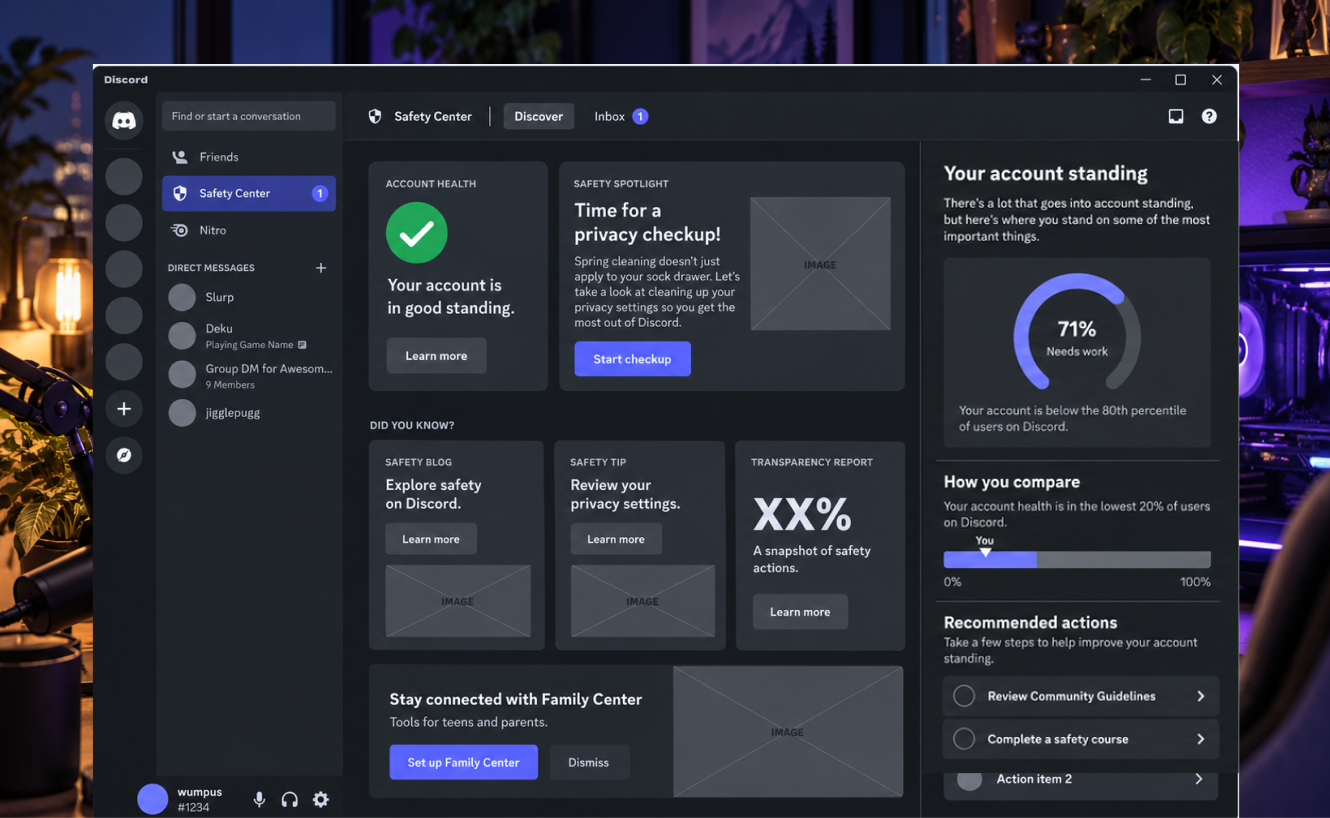
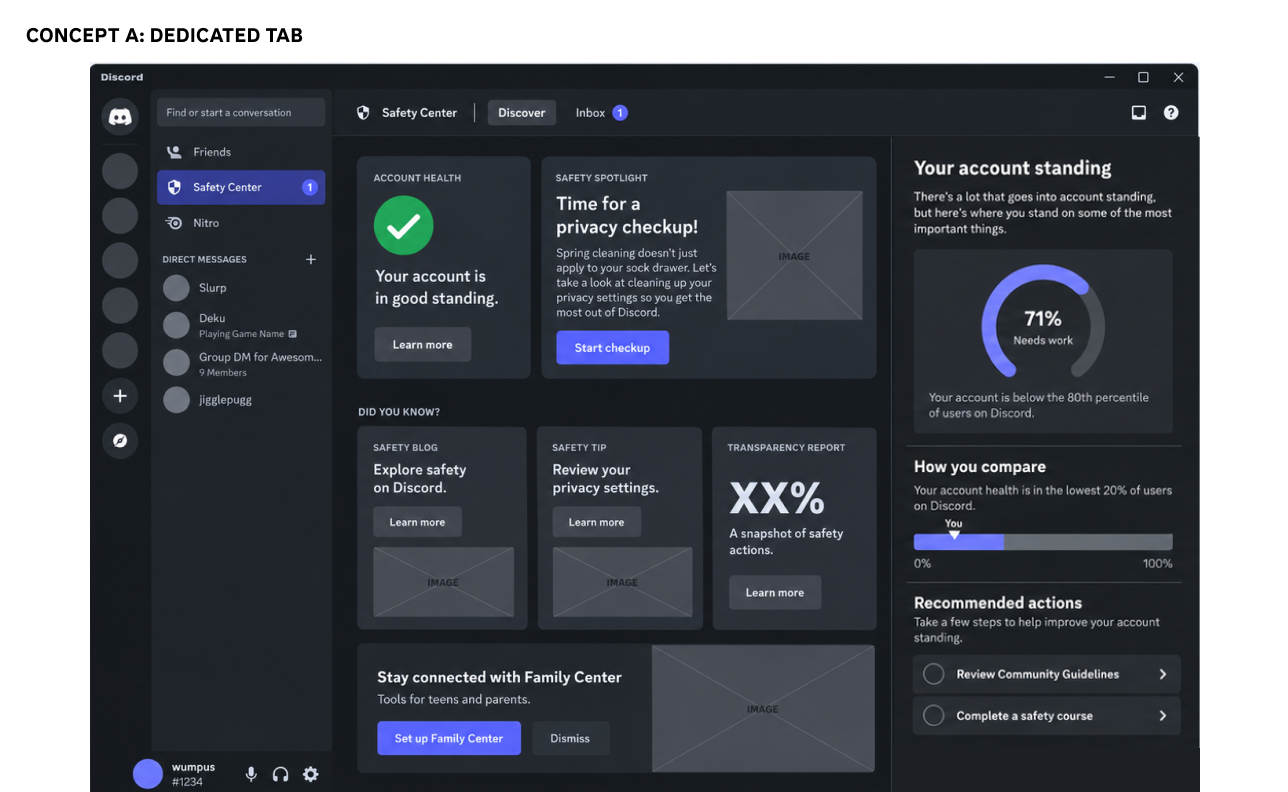
Add Concept B and research next step to Warning System case study

diff --git a/public/warning-system.html b/public/warning-system.html
@@ -503,10 +503,14 @@ html.cp-open .cp h2,html.cp-open .cp p,html.cp-open .cp li{opacity:1;transform:n
 
 <section class="sec tail">
   <div class="sec-head"><div><span class="n">Next steps</span><h2 class="display">Building a future vision</h2></div><div class="body">
-    <p>Launch was the first step, and we designed it as a foundation for broader account health. The future vision adds Reports and safety resources to give people a fuller picture of their account health. A side-tab entry point would make the experience more usable and transparent, but required a larger engineering investment.</p>
+    <p>Launch was the first step, and we designed it as a foundation for broader account health. The future vision adds Reports and safety resources to give people a fuller picture of their account health.</p>
   </div></div>
   <div class="vis"><img class="shot" src="images/ws-projectphases.png" alt="Safety at Discord: projects map showing where Safety Center phases 1 and 2 sit in the app"></div>
+  <div class="vis"><div class="sec-head"><div class="body"><p>A side-tab entry point would make the experience more usable and transparent, but required a much larger engineering investment.</p></div></div></div>
   <div class="vis"><img class="shot" src="images/ws-account-health.jpg" alt="Safety Center with account health, safety spotlight and account standing on desktop"></div>
+  <div class="vis"><div class="sec-head"><div class="body"><p>Concept B keeps everything in one support inbox, with Updates and Account health as tabs. It adds a new entry point, but one that’s lighter to build than a side tab. The tradeoff is that account health is less prominent and has less room to grow.</p></div></div></div>
+  <div class="vis"><img class="shot" src="images/ws-account-health_conceptb.jpg" alt="Second concept for the Safety Center account health page on desktop"></div>
+  <div class="vis"><div class="sec-head"><div class="body"><p>The next step is research. We need to understand how people think about account health on Discord: what it means to them, what they expect to see, and where they’d look for it. That will tell us whether account health earns its own home or belongs alongside updates, and whether the larger investment is justified.</p></div></div></div>
 </section>
 
 <section class="next">
